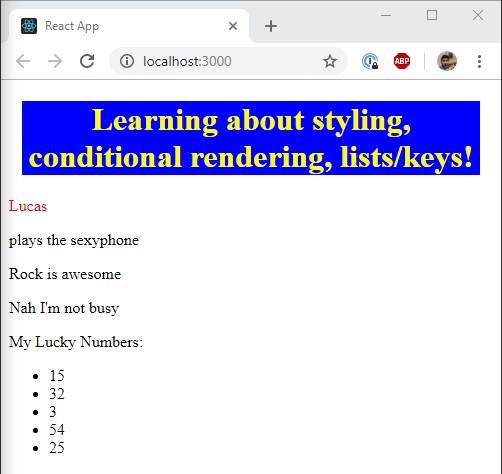
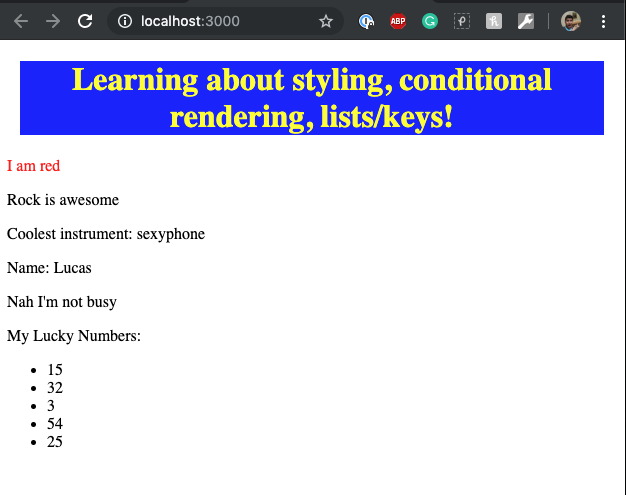
minor refactoring

diff --git a/react/React-Tutorial/Day2/conditionals-and-lists/src/index.js b/react/React-Tutorial/Day2/conditionals-and-lists/src/index.js
@@ -1,66 +1,9 @@
 import React from 'react';
 import ReactDOM from 'react-dom';
-import './index.css';
 
-const coolInstruments = ['guitar', 'sexyphone', 'drums'];
-
-const renderFaveMusic = (props) => {
-  let musicParagraph;
-  if (props.faveMusic === 'rock') {
-    musicParagraph = <p>Rock is awesome</p>;
-  } else if (props.faveMusic === 'house') {
-    musicParagraph = <p>House is better </p>;
-  } else {
-    musicParagraph = <p>I guess country it is....</p>;
-  }
-  return musicParagraph;
-}
-
-const isUserBusy = (props) => {
-  if (!props.isBusy) {
-    return <p>Nah I'm not busy</p>;
-  } else {
-    return null;
-  }
-}
-
-const LuckyNumbers = () => {
-  const luckyNumbers = [15, 32, 3, 54, 25];
-  const listItems = luckyNumbers.map((number) =>
-    <li key={number}>{number}</li>
-  );
-  return (
-    <div>
-      <p> My Lucky Numbers: </p>
-      <ul>{listItems}</ul>
-    </div>
-  );
-}
-
-function App(props) {
-  return (
-    <div>
-      <div className="header-div">
-        <h1> Learning about styling, conditional rendering, lists/keys! </h1>
-      </div>
-      <div id="name-div">
-        { props.name ? props.name : 'No name provided'}
-      </div>
-      <div>
-        <p>plays the {coolInstruments.length > 2 && coolInstruments[1]} </p>
-      </div>
-      <div>
-        {renderFaveMusic(props)}
-      </div>
-      <div>
-        {isUserBusy(props)}
-      </div>
-      <LuckyNumbers />
-    </div>
-  );
-}
+import App from './components/App';
 
 ReactDOM.render(
-  <App name="Lucas" faveMusic="rock" isBusy={false}/>,
+  <App/>,
   document.getElementById('root')
 );

diff --git a/react/React-Tutorial/Day2/conditionals-and-lists/src/components/App.js b/react/React-Tutorial/Day2/conditionals-and-lists/src/components/App.js
@@ -1,0 +1,70 @@
+import React from 'react';
+
+import '../index.css';
+
+const coolInstruments = ['guitar', 'sexyphone', 'drums'];
+
+const renderFaveMusic = (faveMusic) => {
+  let musicParagraph;
+  if (faveMusic === 'rock') {
+    musicParagraph = <p>Rock is awesome</p>;
+  } else if (faveMusic === 'house') {
+    musicParagraph = <p>House is better </p>;
+  } else {
+    musicParagraph = <p>I guess country it is....</p>;
+  }
+  return musicParagraph;
+}
+
+const isUserBusy = (isBusy) => {
+  if (!isBusy) {
+    return <p>Nah I'm not busy</p>;
+  } else {
+    return null;
+  }
+}
+
+const LuckyNumbers = () => {
+  const luckyNumbers = [15, 32, 3, 54, 25];
+  const listItems = luckyNumbers.map((number) =>
+    <li key={number}>{number}</li>
+  );
+  return (
+    <div>
+      <p> My Lucky Numbers: </p>
+      <ul>{listItems}</ul>
+    </div>
+  );
+}
+
+const App = () => {
+  const faveMusic = 'rock';
+  const name = 'Lucas';
+  const isBusy = false;
+  
+  return (
+    <div>
+      <div className="header-div">
+        <h1> Learning about styling, conditional rendering, lists/keys! </h1>
+      </div>
+      <div id="name-div">
+        I am red
+      </div>
+      <div>
+        {renderFaveMusic(faveMusic)}
+      </div>
+      <div>
+        <p>Coolest instrument: {coolInstruments.length > 2 && coolInstruments[1]} </p>
+      </div>
+      <div>
+        Name: { name ? name : 'not provided'}
+      </div>
+      <div>
+        {isUserBusy(isBusy)}
+      </div>
+      <LuckyNumbers />
+    </div>
+  );
+}
+
+export default App;

diff --git a/react/React-Tutorial/Day2/conditionals-and-lists/README.md b/react/React-Tutorial/Day2/conditionals-and-lists/README.md
@@ -30,6 +30,24 @@ h1 {
   color: red;
 }
 ```
+```js
+// App.js
+const App = () => {
+  const name = 'Lucas';
+  const faveMusic = 'rock';
+  const isBusy = false;
+  return (
+    <div>
+      <div className="header-div">
+        <h1> Learning about styling, conditional rendering, lists/keys! </h1>
+      </div>
+      <div id="name-div">
+        I am red
+      </div>
+    </div>
+  )
+}
+```
 
 ## Conditional rendering
 
@@ -40,16 +58,34 @@ h1 {
 - note that you can return JSX elements, or even entire components
 
 ```js
-const renderFaveMusic = (props) => {
+// App.js
+const renderFaveMusic = (faveMusic) => {
   let musicParagraph;
-  if (props.faveMusic === 'rock') {
+  if (faveMusic === 'rock') {
     musicParagraph = <p>Rock is awesome</p>;
-  } else if (props.faveMusic === 'house') {
+  } else if (faveMusic === 'house') {
     musicParagraph = <p>House is better </p>;
   } else {
     musicParagraph = <p>I guess country it is....</p>;
   }
   return musicParagraph;
+}
+
+const App = () => {
+  const faveMusic = 'rock';
+  return (
+    <div>
+      <div className="header-div">
+        <h1> Learning about styling, conditional rendering, lists/keys! </h1>
+      </div>
+      <div id="name-div">
+        I am red
+      </div>
+      <div>
+        {renderFaveMusic(faveMusic)}
+      </div>
+    </div>
+  )
 }
 ```
 
@@ -60,7 +96,16 @@ Use of `&&`
 If the condition is true, the element right after && will appear in the output. If it is false, React will ignore and skip it.
 
 ```js
-<p>plays the {coolInstruments.length > 2 && coolInstruments[1]} </p>
+const coolInstruments = ['guitar', 'sexyphone', 'drums'];
+
+
+const App = () => {
+  const isBusy = false;
+  // keep everything the same
+  <div>
+    <p>Coolest instrument: {coolInstruments.length > 2 && coolInstruments[1]} </p>
+  </div>
+}
 ```
 
 3. Using ternaries
@@ -72,9 +117,15 @@ Another method for conditionally rendering elements inline is to use the JavaScr
 - you can do in-line ternaries
 
 ```js
-<div id="name-div">
-  { props.name ? props.name : 'No name provided'}
-</div>
+const name = 'Lucas';
+
+const App = () => {
+  const isBusy = false;
+  // keep everything the same
+  <div>
+    Name: { name ? name : 'not provided'}
+  </div>
+}
 ```
 
 4. Not displaying a component
@@ -82,12 +133,20 @@ Another method for conditionally rendering elements inline is to use the JavaScr
 - just return null
 
 ```js
-const isUserBusy = (props) => {
-  if (!props.isBusy) {
+const isUserBusy = (isBusy) => {
+  if (!isBusy) {
     return <p>Nah Im not busy</p>;
   } else {
     return null;
   }
+}
+
+const App = () => {
+  const isBusy = false;
+  // keep everything the same
+  <div>
+    {isUserBusy(isBusy)}
+  </div>
 }
 ```
 
